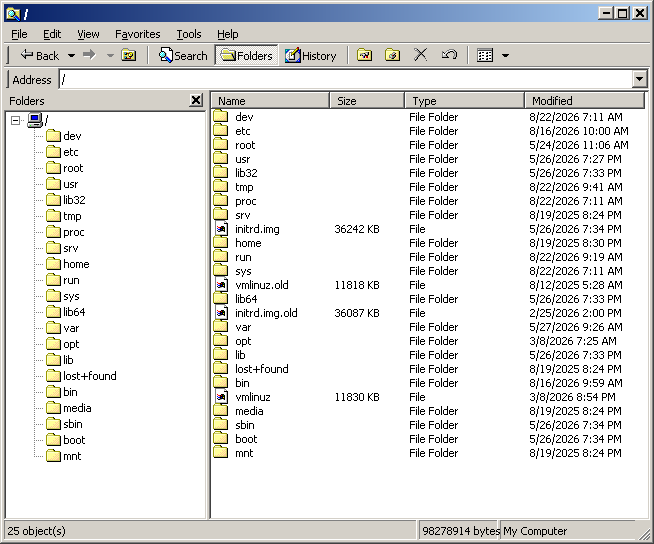
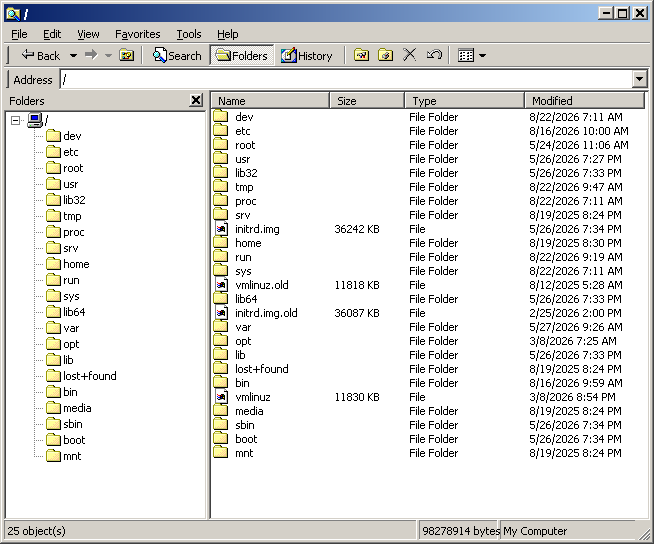
Toolbar button widths, measured off the real thing
Three metrics were out, and each of them moved every button after it:

A button is padded by seven on the right, not six. A button with nothing
but an image is not padded symmetrically at all — the image keeps its
six-pixel inset and only two pixels follow it, so it comes to 24 across
and not 28. And a rebar band's content starts ten pixels in, not nine.

With those three, the first separator and both edges of the checked button
land exactly where the screenshot has them, where before they had drifted
five pixels by the time the toolbar reached its middle.

Changed region(s): [[0.1835, 0.0625, 0.7645, 0.125], [0.0306, 0.0938, 0.1223, 0.1562], [0.1223, 0.0938, 0.1529, 0.125]]

diff --git a/tests/toolbar_test.c b/tests/toolbar_test.c
@@ -23,7 +23,7 @@ static int g_failures = 0;
         }                                                                      \
     } while (0)
 
-enum { ID_BACK = 1, ID_UP, ID_FOLDERS, ID_DEAD };
+enum { ID_BACK = 1, ID_UP, ID_FOLDERS, ID_DEAD, ID_VIEWS };
 
 static HWND g_tb;
 static int g_command, g_dropdown = -1;
@@ -88,7 +88,7 @@ int main(void)
                            0, 0, 460, 22, w, (HMENU)(UINT_PTR)10, NULL, NULL);
     CHECK(g_tb != NULL, "a toolbar");
 
-    TBBUTTON b[5];
+    TBBUTTON b[6];
     memset(b, 0, sizeof(b));
     b[0].idCommand = ID_BACK;
     b[0].fsState = TBSTATE_ENABLED;
@@ -107,8 +107,28 @@ int main(void)
     b[4].fsState = 0; /* not enabled */
     b[4].fsStyle = TBSTYLE_BUTTON;
     b[4].iString = (INT_PTR) "Nope";
-    CHECK(SendMessageA(g_tb, TB_ADDBUTTONSA, 5, (LPARAM)b), "five buttons went in");
-    CHECK(SendMessageA(g_tb, TB_BUTTONCOUNT, 0, 0) == 5, "and it counts five");
+    b[5].idCommand = ID_VIEWS;
+    b[5].fsState = TBSTATE_ENABLED;
+    b[5].fsStyle = TBSTYLE_BUTTON; /* no label: an image and nothing else */
+    CHECK(SendMessageA(g_tb, TB_ADDBUTTONSA, 6, (LPARAM)b), "six buttons went in");
+    CHECK(SendMessageA(g_tb, TB_BUTTONCOUNT, 0, 0) == 6, "and it counts six");
+
+    /* The two widths a button can have, both measured off a real toolbar. A
+     * labelled one is the image's inset, then the text, then seven. One with
+     * nothing but an image is not padded symmetrically: the inset stays and
+     * only two pixels follow the image. Get either wrong and the buttons
+     * after it walk away from where they belong, a little at a time. */
+    {
+        RECT r;
+        const ween_strike *f = ween_gui_font();
+        int text = ween_strike_text_width(f, "Folders", 7);
+        SendMessageA(g_tb, TB_GETITEMRECT, 3, (LPARAM)&r);
+        CHECK(r.right - r.left == 24 + text + 7,
+              "a labelled button is the inset, its text, and seven");
+        SendMessageA(g_tb, TB_GETITEMRECT, 5, (LPARAM)&r);
+        CHECK(r.right - r.left == 6 + 16 + 2,
+              "one with only an image keeps the inset and adds two");
+    }
 
     /* Each button has a rectangle, and they run left to right without gaps. */
     CHECK(button_left(0) == 0, "the first button starts at the left edge");

diff --git a/src/controls.c b/src/controls.c
@@ -2822,7 +2822,7 @@ void ween_register_controls(void)
 #define WEEN_TB_HEIGHT 22
 #define WEEN_TB_ICON_X 6
 #define WEEN_TB_TEXT_X 24
-#define WEEN_TB_PAD_RIGHT 6
+#define WEEN_TB_PAD_RIGHT 7
 #define WEEN_TB_SEP_W 8
 #define WEEN_TB_DROP_W 11 /* the arrow half of a drop-down button */
 
@@ -2881,9 +2881,11 @@ static void toolbar_layout(HWND wnd, ween_toolbar *tb)
             int text = b->text ? ween_strike_text_width(f, b->text,
                                                         (int)strlen(b->text))
                                : 0;
+            /* A button with nothing but an image is not symmetric: the
+             * image keeps its left inset and only two pixels follow it. */
             b->w = text ? ween_ncm(WEEN_TB_TEXT_X) + text +
                               ween_ncm(WEEN_TB_PAD_RIGHT)
-                        : ween_ncm(WEEN_TB_ICON_X) * 2 + 16;
+                        : ween_ncm(WEEN_TB_ICON_X) + 16 + ween_ncm(2);
             if (b->style & TBSTYLE_DROPDOWN)
                 b->w += ween_ncm(WEEN_TB_DROP_W);
         }
@@ -3173,13 +3175,13 @@ static LRESULT toolbar_proc(HWND wnd, UINT msg, WPARAM wp, LPARAM lp)
  * label, then the control filling what is left.
  *
  * Measured off a Windows 2000 shell: the etched line is a shadow row with a
- * white one under it, and the content starts nine pixels in from the band's
- * left, which is two, the three of the gripper, then four.
+ * white one under it, and the content starts ten pixels in from the band's
+ * left, which is two, the three of the gripper, then five.
  */
 
 #define WEEN_RB_GRIPPER_W 3
 #define WEEN_RB_GRIPPER_INSET 2
-#define WEEN_RB_CONTENT_X 9
+#define WEEN_RB_CONTENT_X 10
 #define WEEN_RB_EDGE_H 2 /* the etched line above each band */
 #define WEEN_RB_LABEL_GAP 6
 
